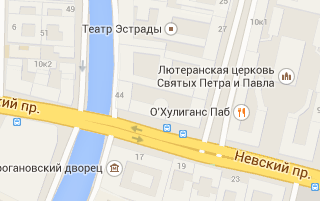
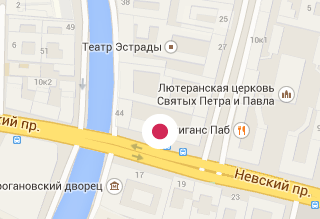
Вёрстка секции Карта

diff --git a/source/js/_map.js b/source/js/_map.js
@@ -1,0 +1,32 @@
+(function () {
+    ymaps.ready(initMap);
+
+    function initMap() {
+        let myMap = new ymaps.Map("map-interactive", {
+            center: [59.938635, 30.323118],
+            zoom: 17,
+            controls: ["zoomControl"]
+        });
+
+        let myGeoObjects = [];
+
+        myGeoObjects = new ymaps.Placemark([59.938635, 30.323118], {
+            baloonContentBody: 'Текст в балуне',
+        }, {
+            iconLayout: 'default#image',
+            iconImageHref: 'img/svg/map-marker.svg',
+            iconImageSize: [36,36],
+            iconImageOffset: [-18, -18]
+        });
+
+        let clusterer = new ymaps.Clusterer({
+            clusterDisableClickZoom: false,
+            cluseterOpenBaloonOnClick: false,
+        });
+
+        clusterer.add(myGeoObjects);
+        myMap.geoObjects.add(clusterer);
+
+        // myMap.behaviours.disable('scrollZoom');
+    }
+})();

diff --git a/source/html/index.html b/source/html/index.html
@@ -269,4 +269,21 @@
   </div>
 </section>
 
+<section class="map" id="map">
+  <h2 class="visually-hidden">Схема проезда</h2>
+  <figure class="map__wrapper">
+    <div class="map__interactive" id="map-interactive"></div>
+    <picture>
+      <source media="(min-width: 1200px)" srcset="img/map.webp" type="image/webp"> 
+      <source media="(min-width: 1200px)" srcset="img/map.png">
+      <source media="(min-width: 660px)" srcset="img/map-tablet.webp" type="image/webp">  
+      <source media="(min-width: 660px)" srcset="img/map-tablet.png">
+      <source srcset="img/map-mobile.webp" type="image/webp">   
+      <img src="img/map-mobile.png" alt="Карта проезда к разработчикам Pink" class="map__image">
+    </picture>
+  </figure>
+</section>
+
+
+<script src="http://api-maps.yandex.ru/2.1/?lang=ru_RU"></script>
 @@include("includes/_footer.html")

diff --git a/source/scss/blocks/_map.scss b/source/scss/blocks/_map.scss
@@ -1,0 +1,27 @@
+.map {
+  // Не требуется
+}
+
+.map__wrapper {
+  position: relative;
+
+  padding: 0;
+  margin: 0;
+  // z-index: 1;
+}
+
+.map__image {
+  width: 100%;
+  pointer-events: none;
+}
+
+.map__interactive {
+  position: absolute;
+  top: 0;
+  left: 0;
+
+  width: 100%;
+  height: 100%;
+
+  z-index: 1;
+}

diff --git a/source/scss/style.scss b/source/scss/style.scss
@@ -13,7 +13,7 @@
 
 @import "blocks/advantages";
 
-@import "blocks/science";
+@import "blocks/science"; 
 
 @import "blocks/reviews";
 @import "blocks/reviews-slider";
@@ -22,3 +22,5 @@
 @import "blocks/tariffs-table";
 
 @import "blocks/contacts";
+
+@import "blocks/map";

diff --git a/source/scss/blocks/_contacts.scss b/source/scss/blocks/_contacts.scss
@@ -1,8 +1,13 @@
 .contacts {
+  @include corner(33px, 'ffffff');
+  z-index: 2;
+
   padding-top: 45px;
   padding-bottom: 40px;
 
-  @include corner(33px, 'ffffff')
+  &::after {
+    pointer-events: none;
+  }
 }
 
 .contacts__intro {

diff --git a/source/js/script.js b/source/js/script.js
@@ -4,3 +4,5 @@
 @@include("_reviews-slider.js");
 
 @@include("_tariffs-slider.js");
+
+@@include("_map.js");
